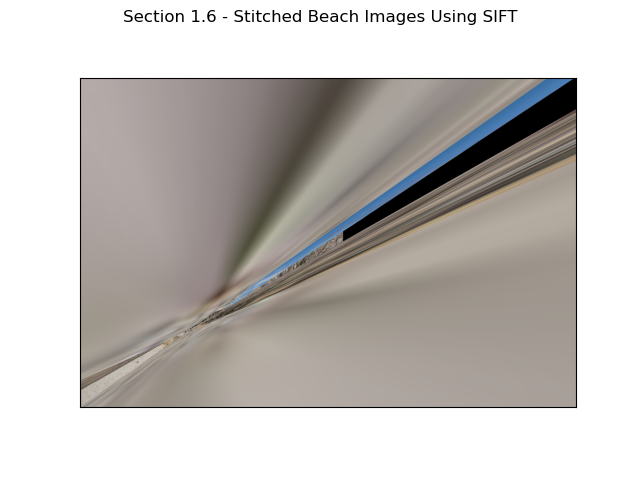
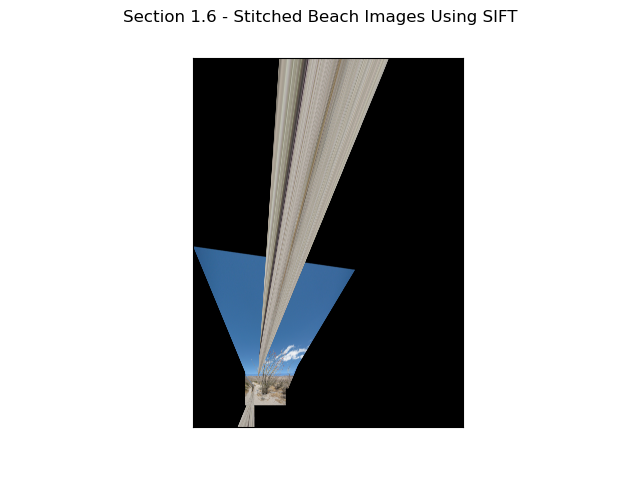
progress

diff --git a/code/my_homography.py b/code/my_homography.py
@@ -105,7 +105,7 @@ def createBigPanorama(images, mode='SIFT', use_ransac=True):
         else:
             p1, p2 = getPoints(current_result_left, image, 6, True)
         if use_ransac == True:
-            H_SIFT_2to1 = ransacH(p1, p2, nIter=150, tol=1.5) # TODO check
+            H_SIFT_2to1 = ransacH(p1, p2)
         else:
             H_SIFT_2to1 = computeH(p1[:, :6], p2[:, :6]) # TODO check
         out_size, y_down_amount, x_right_amount = \
@@ -122,7 +122,7 @@ def createBigPanorama(images, mode='SIFT', use_ransac=True):
         else:
             p1, p2 = getPoints(current_result_right, image, 6, True)
         if use_ransac == True:
-            H_SIFT_2to1 = ransacH(p1, p2, nIter=150, tol=1.5) # TODO check
+            H_SIFT_2to1 = ransacH(p1, p2)
         else:
             H_SIFT_2to1 = computeH(p1[:, :6], p2[:, :6]) # TODO check
         out_size, y_down_amount, x_right_amount = \
@@ -139,7 +139,7 @@ def createBigPanorama(images, mode='SIFT', use_ransac=True):
     else:
         p1, p2 = getPoints(current_result_left, current_result_right, 6, True)
     if use_ransac == True:
-        H_SIFT_2to1 = ransacH(p1, p2, nIter=150, tol=1.5) # TODO check
+        H_SIFT_2to1 = ransacH(p1, p2)
     else:
         H_SIFT_2to1 = computeH(p1[:, :6], p2[:, :6]) # TODO check
     out_size, y_down_amount, x_right_amount = \
@@ -456,7 +456,7 @@ def Q1Six():
         cv2.cvtColor(cv2.imread('./data/beach4.jpg'), cv2.COLOR_BGR2RGB),
         cv2.cvtColor(cv2.imread('./data/beach5.jpg'), cv2.COLOR_BGR2RGB)]
 
-    scale_percent = 60  # percent of original size
+    scale_percent = 15  # percent of original size
     width = int(beach_images[0].shape[1] * scale_percent / 100)
     height = int(beach_images[0].shape[0] * scale_percent / 100)
     dim = (width, height)
@@ -484,24 +484,24 @@ def Q1Six():
     # plt.savefig("./../output/Section 1.6 - Stitched Beach Images Using "
     #             "Manually Selected Points.png")
 
-    # start_SIFT_stitch_beach_time = time.time()
-    # print(f"Q1.6 - Starting panorama creation of Beach images using SIFT and "
-    #       f"no RANSAC, with scale factor of {scale_percent}")
-    # SIFT_stitch_beach = createBigPanorama(beach_images, mode='SIFT',
-    #                                       use_ransac=False)
-    # end_SIFT_stitch_beach_time = time.time()
-    # print(f"Q1.6 - Panorama creation of Beach images using SIFT and no RANSAC "
-    #       f"with with scale factor of {scale_percent} took "
-    #       f"{end_SIFT_stitch_beach_time - start_SIFT_stitch_beach_time} "
-    #       f"seconds to complete")
-    #
-    # fig2, axes2 = plt.subplots(1, 1)
-    # axes2.imshow(SIFT_stitch_beach)
-    # axes2.set_xticks([])
-    # axes2.set_yticks([])
-    # fig2.suptitle('Section 1.6 - Stitched Beach Images Using SIFT')
-    # plt.savefig("./../output/Section 1.6 - Stitched Beach Images Using "
-    #             "SIFT.png")
+    start_SIFT_stitch_beach_time = time.time()
+    print(f"Q1.6 - Starting panorama creation of Beach images using SIFT and "
+          f"no RANSAC, with scale factor of {scale_percent}")
+    SIFT_stitch_beach = createBigPanorama(beach_images, mode='SIFT',
+                                          use_ransac=False)
+    end_SIFT_stitch_beach_time = time.time()
+    print(f"Q1.6 - Panorama creation of Beach images using SIFT and no RANSAC "
+          f"with with scale factor of {scale_percent} took "
+          f"{end_SIFT_stitch_beach_time - start_SIFT_stitch_beach_time} "
+          f"seconds to complete")
+
+    fig2, axes2 = plt.subplots(1, 1)
+    axes2.imshow(SIFT_stitch_beach)
+    axes2.set_xticks([])
+    axes2.set_yticks([])
+    fig2.suptitle('Section 1.6 - Stitched Beach Images Using SIFT')
+    plt.savefig("./../output/Section 1.6 - Stitched Beach Images Using "
+                "SIFT.png")
 
     # Load palace images in opposite order
     palace_images = [
@@ -519,25 +519,25 @@ def Q1Six():
     # Resize the images due to time constraints
     palace_images = [cv2.resize(img, dim) for img in palace_images]
 
-    start_Manual_stitch_palace_time = time.time()
-    print(f"Q1.6 - Starting panorama creation of Palace images using Manual "
-          f"mode and no RANSAC, with scale factor of {scale_percent}")
-    manual_stitch_palace = createBigPanorama(palace_images, mode='MANUAL',
-                                             use_ransac=False)
-    end_Manual_stitch_palace_time = time.time()
-    print(f"Q1.6 - Panorama creation of Palace images using Manual mode and "
-          f"no RANSAC with with scale factor of {scale_percent} took "
-          f"{end_Manual_stitch_palace_time - start_Manual_stitch_palace_time} "
-          f"seconds to complete")
-
-    fig3, axes3 = plt.subplots(1, 1)
-    axes3.imshow(manual_stitch_palace)
-    axes3.set_xticks([])
-    axes3.set_yticks([])
-    fig3.suptitle('Section 1.6 - Stitched Palace Images Using Manually '
-                  'Selected Points')
-    plt.savefig("./../output/Section 1.6 - Stitched Palace Images Using "
-                "Manually Selected Points.png")
+    # start_Manual_stitch_palace_time = time.time()
+    # print(f"Q1.6 - Starting panorama creation of Palace images using Manual "
+    #       f"mode and no RANSAC, with scale factor of {scale_percent}")
+    # manual_stitch_palace = createBigPanorama(palace_images, mode='MANUAL',
+    #                                          use_ransac=False)
+    # end_Manual_stitch_palace_time = time.time()
+    # print(f"Q1.6 - Panorama creation of Palace images using Manual mode and "
+    #       f"no RANSAC with with scale factor of {scale_percent} took "
+    #       f"{end_Manual_stitch_palace_time - start_Manual_stitch_palace_time} "
+    #       f"seconds to complete")
+    #
+    # fig3, axes3 = plt.subplots(1, 1)
+    # axes3.imshow(manual_stitch_palace)
+    # axes3.set_xticks([])
+    # axes3.set_yticks([])
+    # fig3.suptitle('Section 1.6 - Stitched Palace Images Using Manually '
+    #               'Selected Points')
+    # plt.savefig("./../output/Section 1.6 - Stitched Palace Images Using "
+    #             "Manually Selected Points.png")
 
     # start_SIFT_stitch_palace_time = time.time()
     # print(f"Q1.6 - Starting panorama creation of Palace images using SIFT and "
@@ -568,51 +568,51 @@ def Q1Seven():
         cv2.cvtColor(cv2.imread('./data/beach4.jpg'), cv2.COLOR_BGR2RGB),
         cv2.cvtColor(cv2.imread('./data/beach5.jpg'), cv2.COLOR_BGR2RGB)]
 
-    scale_percent = 60  # percent of original size
+    scale_percent = 40  # percent of original size
     width = int(beach_images[0].shape[1] * scale_percent / 100)
     height = int(beach_images[0].shape[0] * scale_percent / 100)
     dim = (width, height)
 
     # Resize the images due to time constraints
     beach_images = [cv2.resize(img, dim) for img in beach_images]
-    # start_Manual_stitch_beach_time = time.time()
-    # print(f"Q1.7 - Starting panorama creation of Beach images using Manual "
-    #       f"mode and RANSAC, with scale factor of {scale_percent}")
-    # manual_stitch_beach = createBigPanorama(beach_images, mode='MANUAL',
-    #                                         use_ransac=True)
-    # end_Manual_stitch_beach_time = time.time()
-    # print(f"Q1.7 - Panorama creation of Beach images using Manual mode and "
-    #       f"RANSAC with with scale factor of {scale_percent} took "
-    #       f"{end_Manual_stitch_beach_time - start_Manual_stitch_beach_time} "
-    #       f"seconds to complete")
-    #
-    # fig1, axes1 = plt.subplots(1, 1)
-    # axes1.imshow(manual_stitch_beach)
-    # axes1.set_xticks([])
-    # axes1.set_yticks([])
-    # fig1.suptitle('Section 1.7 - Stitched Beach Images Using Manually '
-    #               'Selected Points and RANSAC')
-    # plt.savefig("./../output/Section 1.7 - Stitched Beach Images Using "
-    #             "Manually Selected Points and RANSAC.png")
-    #
-    start_SIFT_stitch_beach_time = time.time()
-    print(f"Q1.7 - Starting panorama creation of Beach images using SIFT and "
-          f"RANSAC, with scale factor of {scale_percent}")
-    SIFT_stitch_beach = createBigPanorama(beach_images, mode='SIFT',
-                                          use_ransac=True)
-    end_SIFT_stitch_beach_time = time.time()
-    print(f"Q1.7 - Panorama creation of Beach images using SIFT and RANSAC "
-          f"with with scale factor of {scale_percent} took "
-          f"{end_SIFT_stitch_beach_time - start_SIFT_stitch_beach_time} "
+    start_Manual_stitch_beach_time = time.time()
+    print(f"Q1.7 - Starting panorama creation of Beach images using Manual "
+          f"mode and RANSAC, with scale factor of {scale_percent}")
+    manual_stitch_beach = createBigPanorama(beach_images, mode='MANUAL',
+                                            use_ransac=True)
+    end_Manual_stitch_beach_time = time.time()
+    print(f"Q1.7 - Panorama creation of Beach images using Manual mode and "
+          f"RANSAC with with scale factor of {scale_percent} took "
+          f"{end_Manual_stitch_beach_time - start_Manual_stitch_beach_time} "
           f"seconds to complete")
 
-    fig2, axes2 = plt.subplots(1, 1)
-    axes2.imshow(SIFT_stitch_beach)
-    axes2.set_xticks([])
-    axes2.set_yticks([])
-    fig2.suptitle('Section 1.7 - Stitched Beach Images Using SIFT and RANSAC')
+    fig1, axes1 = plt.subplots(1, 1)
+    axes1.imshow(manual_stitch_beach)
+    axes1.set_xticks([])
+    axes1.set_yticks([])
+    fig1.suptitle('Section 1.7 - Stitched Beach Images Using Manually '
+                  'Selected Points and RANSAC')
     plt.savefig("./../output/Section 1.7 - Stitched Beach Images Using "
-                "SIFT and RANSAC.png")
+                "Manually Selected Points and RANSAC.png")
+
+    # start_SIFT_stitch_beach_time = time.time()
+    # print(f"Q1.7 - Starting panorama creation of Beach images using SIFT and "
+    #       f"RANSAC, with scale factor of {scale_percent}")
+    # SIFT_stitch_beach = createBigPanorama(beach_images, mode='SIFT',
+    #                                       use_ransac=True)
+    # end_SIFT_stitch_beach_time = time.time()
+    # print(f"Q1.7 - Panorama creation of Beach images using SIFT and RANSAC "
+    #       f"with with scale factor of {scale_percent} took "
+    #       f"{end_SIFT_stitch_beach_time - start_SIFT_stitch_beach_time} "
+    #       f"seconds to complete")
+    #
+    # fig2, axes2 = plt.subplots(1, 1)
+    # axes2.imshow(SIFT_stitch_beach)
+    # axes2.set_xticks([])
+    # axes2.set_yticks([])
+    # fig2.suptitle('Section 1.7 - Stitched Beach Images Using SIFT and RANSAC')
+    # plt.savefig("./../output/Section 1.7 - Stitched Beach Images Using "
+    #             "SIFT and RANSAC.png")
 
     # Load palace images in opposite order
     # palace_images = [
@@ -740,7 +740,7 @@ if __name__ == '__main__':
     # Q1Four()
     # Q1Five()
     # Q1Six()
-    # Q1Seven()
+    Q1Seven()
     # Q1Eight()
 
     print("end")
